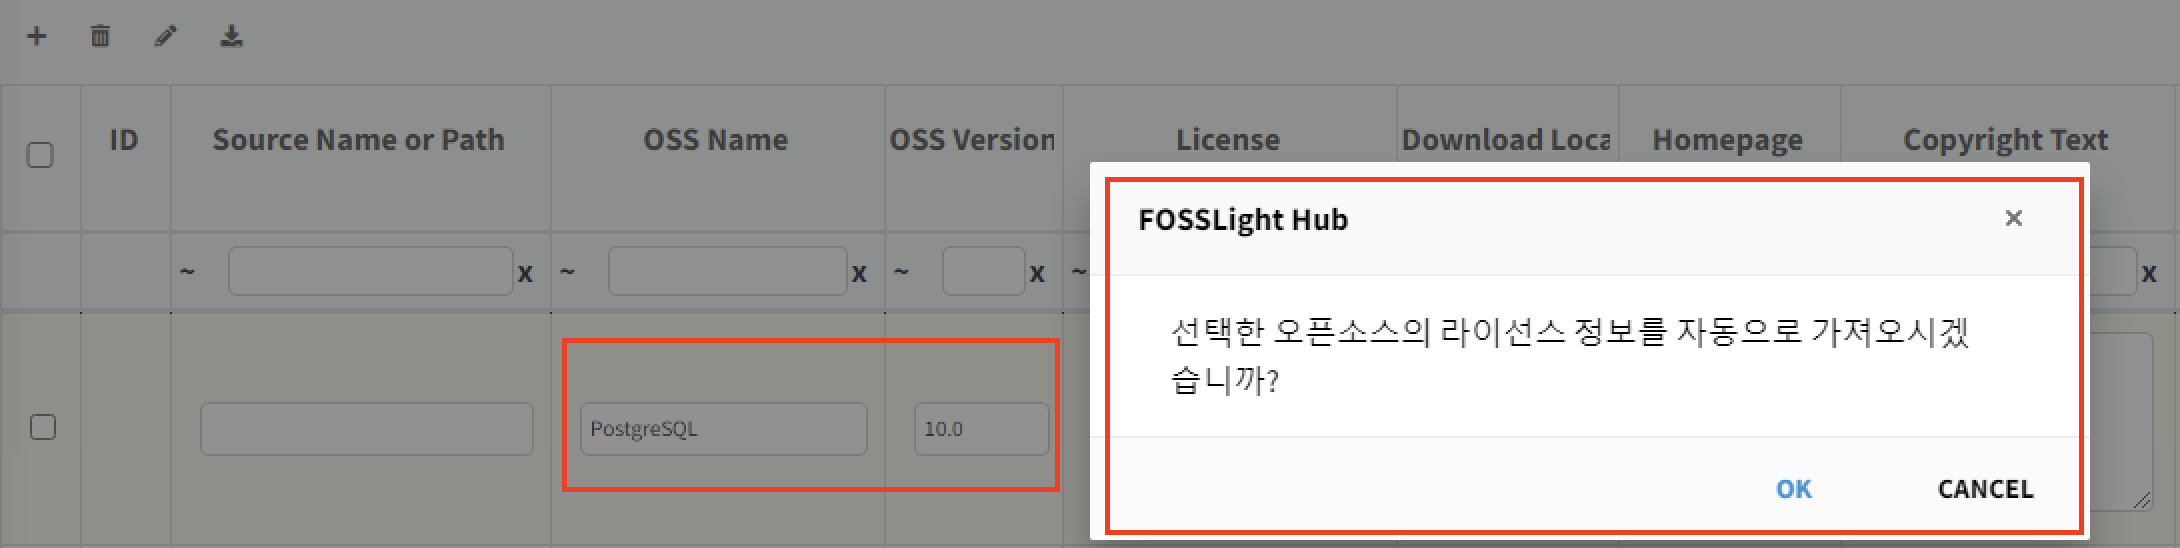
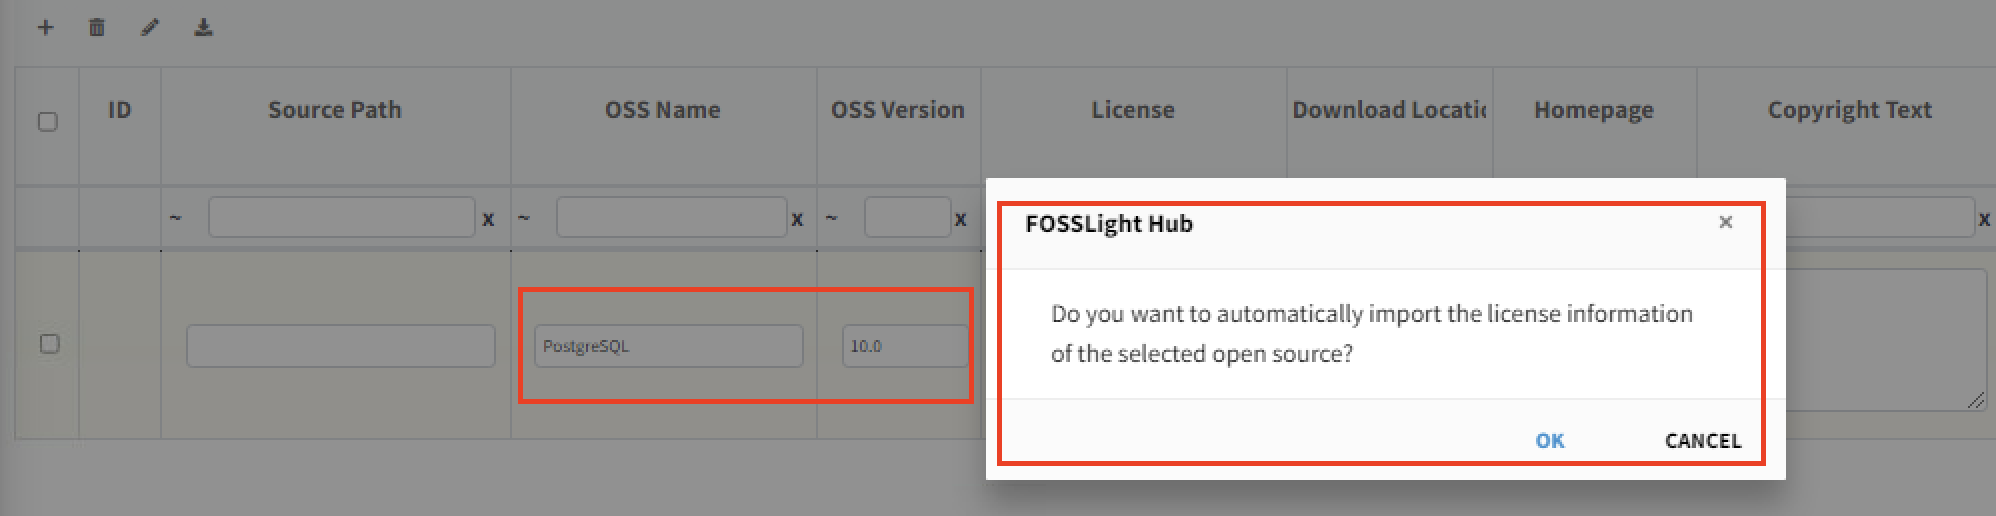
Update images for eng version

diff --git a/tips/1_common/3_project_tab_bar/README.md b/tips/1_common/3_project_tab_bar/README.md
@@ -15,6 +15,6 @@ The currently available buttons are shown for each menu. Examples for each menu 
   ![BtnProjectIdentification](../../images/common/information_view/btn_project_identification.png)
 
 - Self-Check:
-  ![img.png](../../images/common/information_view/btn_selfcheck.png)
+  ![BtnSelfCheck](../../images/common/information_view/btn_selfcheck.png)
 
 {% include list.liquid all=true %}
